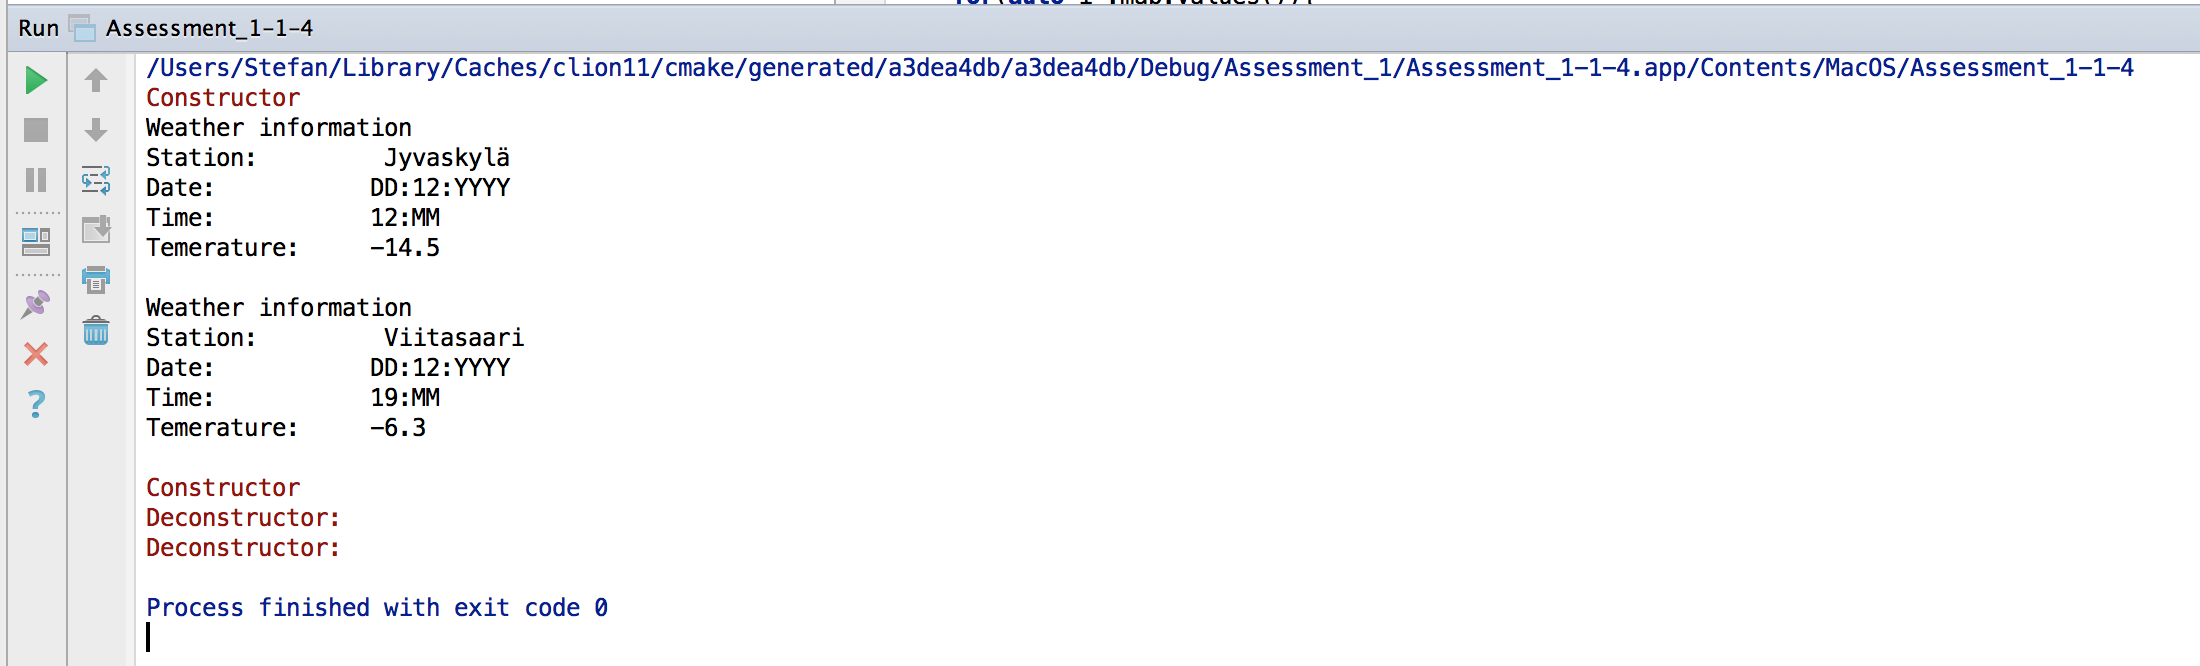
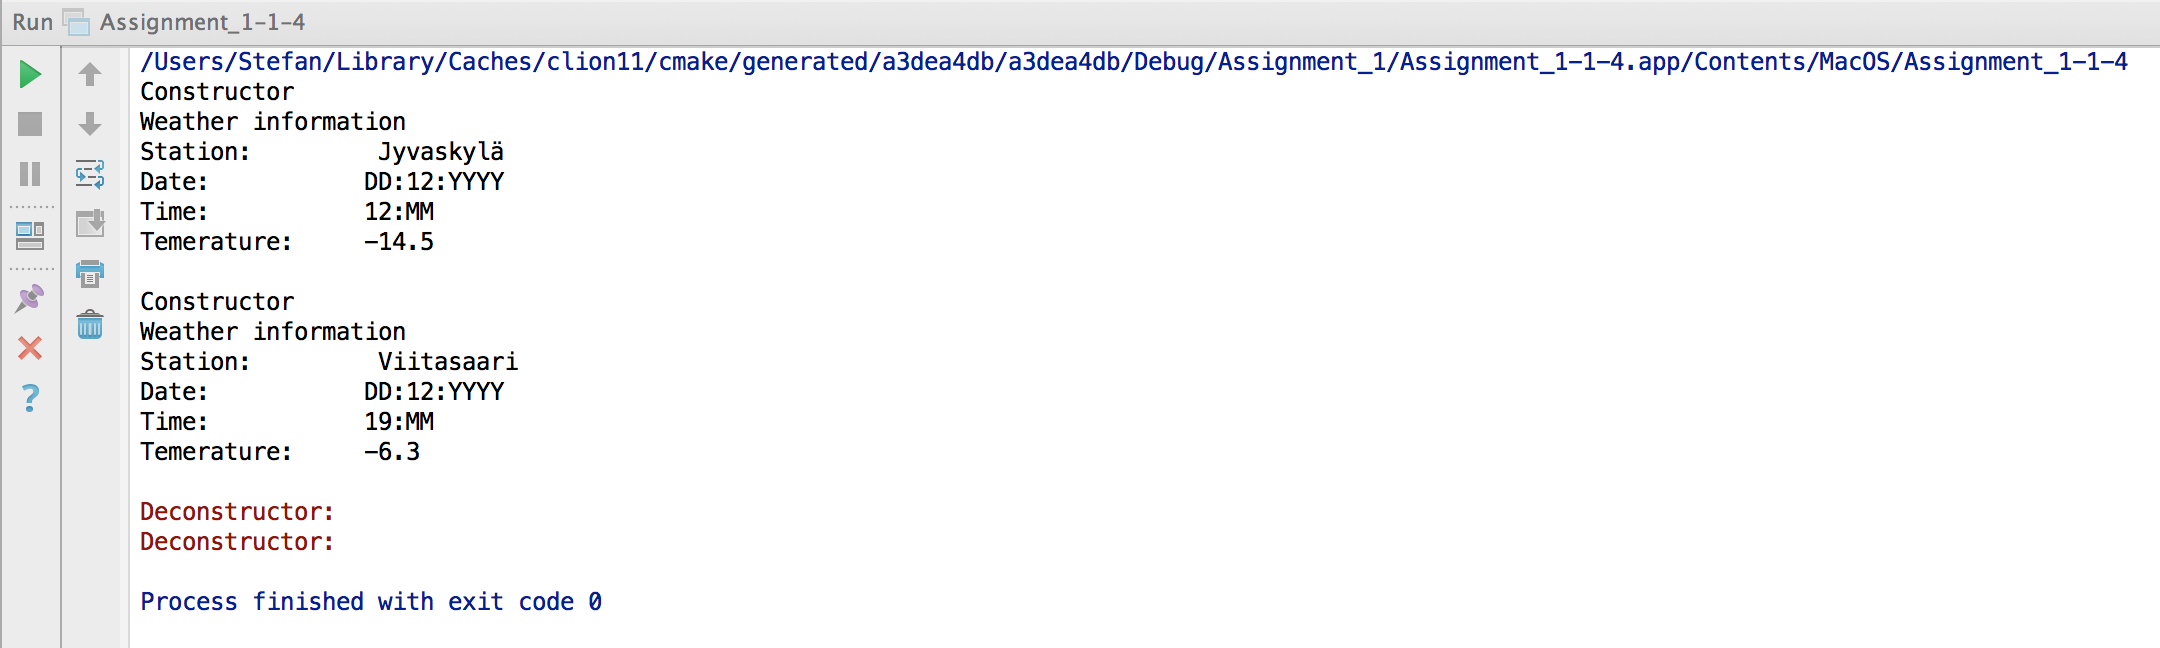
test with cout instead of qDebug()

diff --git a/Assignment_1/src/models/WeatherData.cpp b/Assignment_1/src/models/WeatherData.cpp
@@ -7,8 +7,9 @@
 #include <QObject>
 #include <QVariant>
 #include <QDebug>
+#include <iostream>
 WeatherData::WeatherData() :QObject() {
-    qDebug() << "Constructor";
+    std::cout << "Constructor" << std::endl;
 }
 WeatherData::~WeatherData() {
     qDebug() << "Deconstructor: ";
